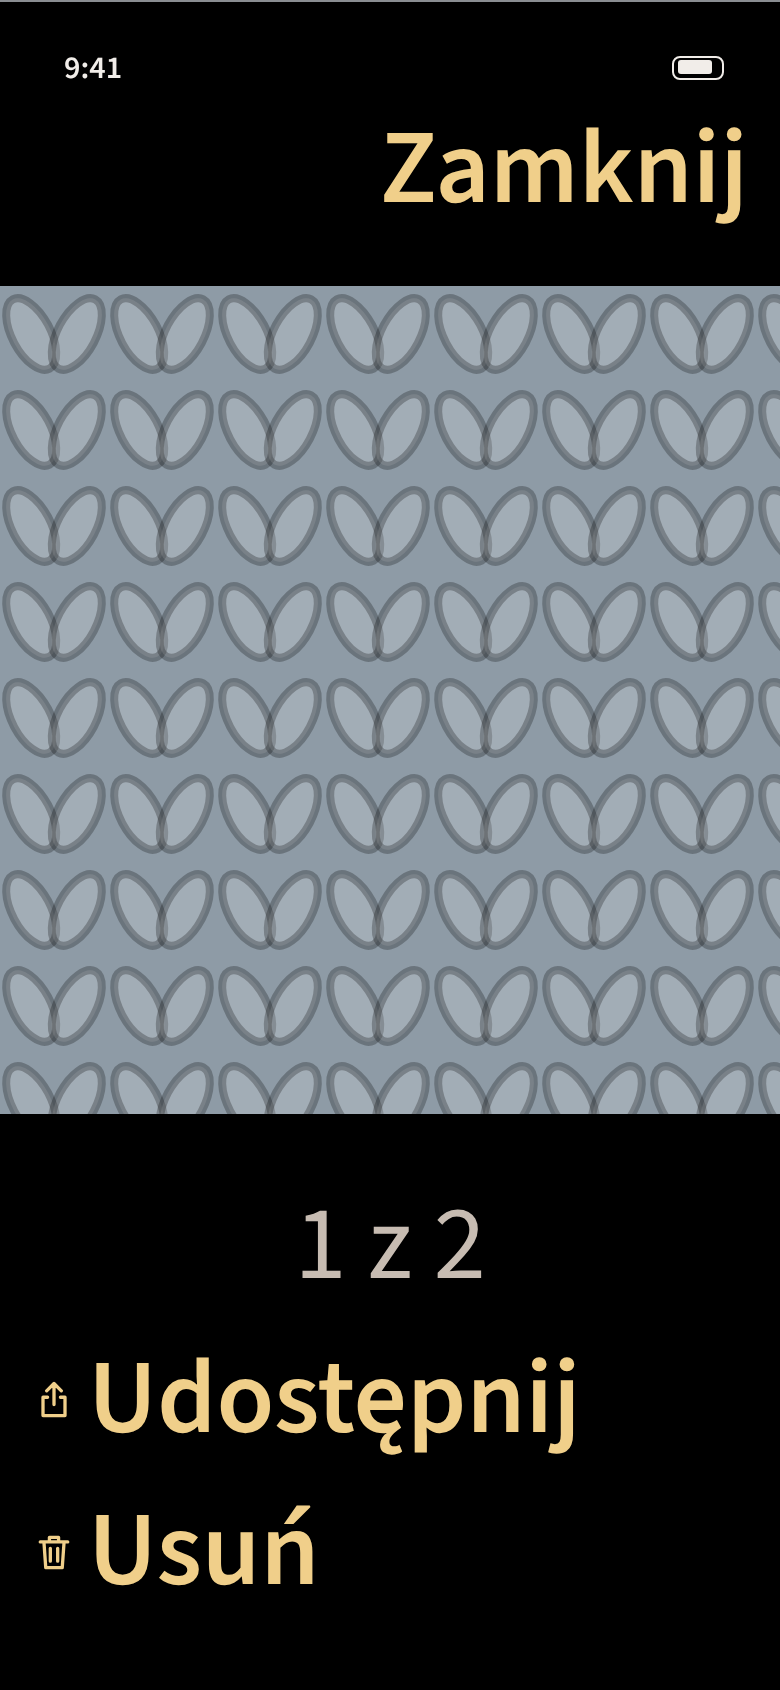
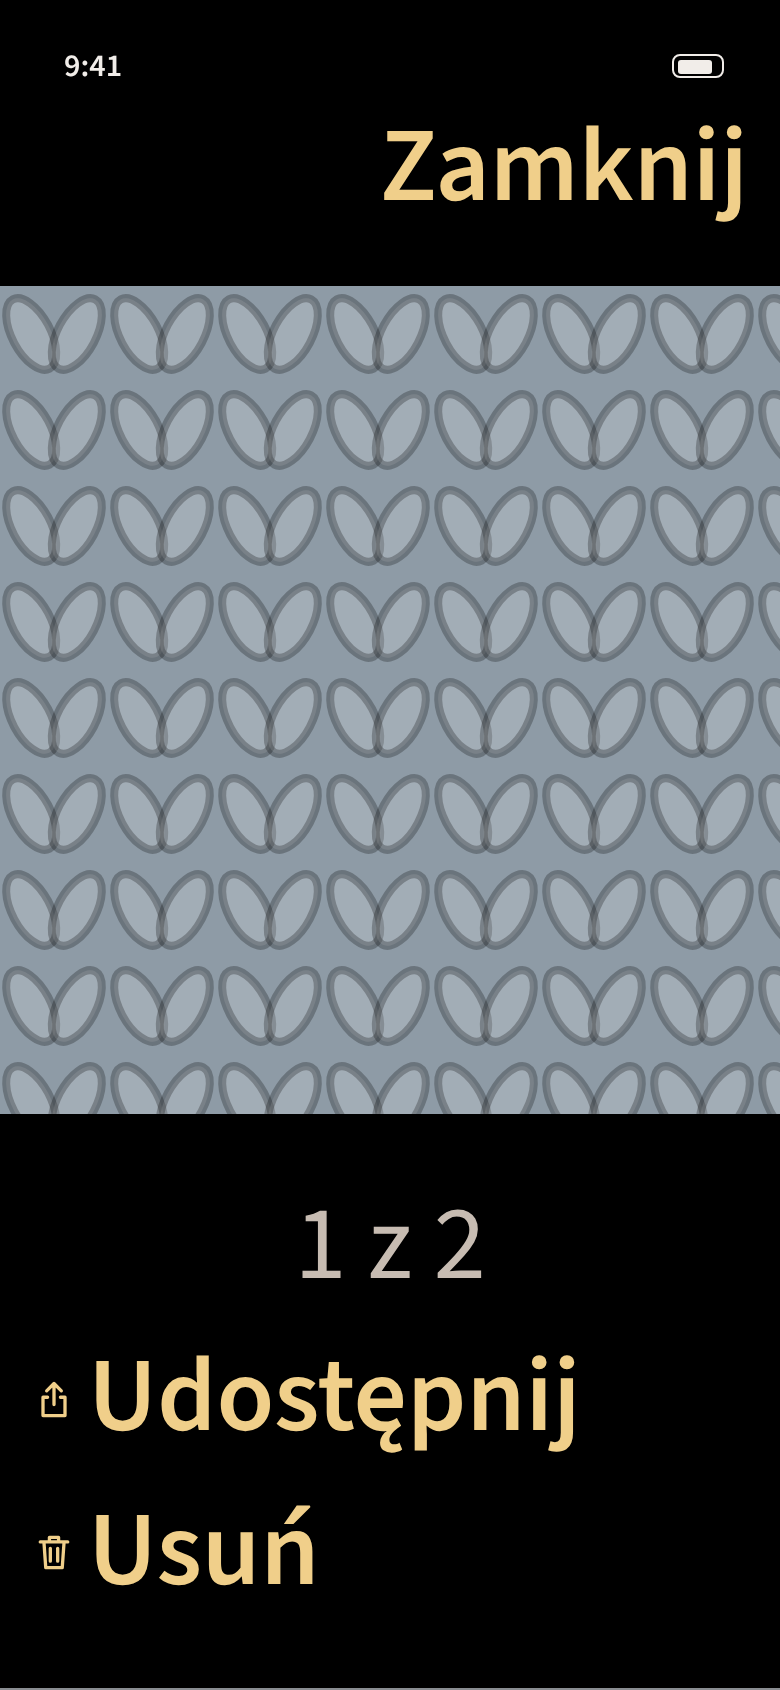
[04 reaudit-fix E5] 019 wzorce 5 ekranów zregenerowane, 020 nazwa progu AX3, tokeny pola wyboru (P-627)

diff --git a/docs/design/dzianina/design-spec.md b/docs/design/dzianina/design-spec.md
@@ -136,3 +136,10 @@ Makiety: `ekrany.html` (`dzis-*-ax5`, `licznik-*`, nowe `licznik-cel`, `licznik-
 - **006 „wstecz”** (`wstecz`): `chevron.backward` + nazwa poprzedniego ekranu (ten sam klucz co jego tytuł) w `akcentTekst`, 400; gdy nazwa się nie mieści (dłuższa niż ok. 1/3 szerokości paska) — „Back”, jak system; korzenie zakładek (Dziś, Projekty, Narzędzia, Historia) bez „wstecz”; wyjątek nazwany: pasek wzoru sama strzałka, etykieta „Back to {część}” albo „Back to counter” (007). Lista ekranów w `zadania-08.md`.
 - **014**: hierarchia promieni wyżej (`promienie.minus` 18, `promienie.ikonaKafla` 12); linia zakreśleń wzoru w roli `mala` 13 pt; „Ukończony {data}” = istniejący klucz `projekty.ukonczono_bez_czasu` (P-614 (7)); miniatura zdjęcia z `projekt.zdjecie.miniatura`; „Zamknij” notatek wzoru w prawym górnym rogu.
 - **P-590**: dzień dziergany bez faktury (tydzień i kalendarz). Czego nie sprawdzono: urządzenie, 320/430 pt nowych stanów, iPad 13″ (1376 pt) — reguła progu go obejmuje.
+
+## Reaudyt E5 (2026-11-09, P-627): poprawki 04 w `docs/design/`
+Raport: warsztat `04-studio/2026-11-09-reaudit/04-studio-projektowe-reaudit-2026-11-09.md`.
+- **019 (N1)**: wzorce `oferty`, `oferty-czeka`, `zdjecie`, `formularz-czesc`, `wzor` (20 plików) zregenerowane z `ekrany.html`; po regeneracji `dzianina-zrzuty.mjs` daje 96/96 plików identycznych z `wzorce-zrzuty/`. Przyczyna: wzorce starsze niż wspólny CSS fixu E5, nie wersja Chromium (renderer deterministyczny).
+- **020**: próg AX3 = `UIContentSizeCategoryAccessibilityExtraLarge` (RN `fontScale` 2,643; AccessibilityMedium 1,786 to AX1) — poprawiony opis `cele._plusAx5`.
+- **011 pole wyboru** (P-619 (2) B przyjęte, P-627): własne tokeny `znaczniki.poleWyboru` 28, `poleWyboruAx5` 40, `poleWyboruPromien` 10 (wartości bez zmian względem wdrożenia zastępczego `znaczniki.radio` + `promienie.pole`); 08 przełącza `PoleWyboru` na te nazwy.
+- **018 (1.0.1)**: reguła „nazwa ≤ 1/3 paska” ma liczyć znaki CJK (Han, Hiragana, Katakana, Hangul) jako 1,0 em, nie 0,55 em.

diff --git a/docs/design/dzianina/fix-e5-2026-11-09/dowody.md b/docs/design/dzianina/fix-e5-2026-11-09/dowody.md
@@ -14,3 +14,5 @@ Gałąź `claude/kopia-04-fix-e5-2026-11-09` od 8ec4a579. Zmiany tylko w `docs/d
 Arkusze: `przed-po.png`, `przeglad.png`. Kontrast: `node ../narzedzia/kontrast.mjs kontrast-pary.json` → kod 0 (256 par, bez nowych barw). Zrzuty wzorcowe: `node ../narzedzia/dzianina-zrzuty.mjs ekrany.html wzorce-zrzuty` kod 0 (96 plików, w tym 8 nowych). Ekrany niezmienione w tym fixie (oferty, oferty-czeka, zdjęcie, wzór, formularz-część) przywrócone z HEAD: obecny renderer daje różnice pikseli także tam, gdzie makieta się nie zmieniła — nowe znalezisko niżej.
 
 Nowe znaleziska (nie naprawiane): (N1) linia bazowa `wzorce-zrzuty/` nie jest odtwarzalna bit w bit — ponowny render niezmienionych ekranów różni się (np. `zdjecie-390-jasny` ok. 20 tys. pikseli o różnicy > 40); do sprawdzenia, czy to wersja Chromium, czy wcześniejsza zmiana makiety bez regeneracji. P2, brzegowe.
+
+Reaudyt (9.11, P-627): N1 rozstrzygnięte — renderer deterministyczny, 20 wzorców 5 ekranów zregenerowanych (96/96 identycznych); szczegóły w design-spec „Reaudyt E5”.
